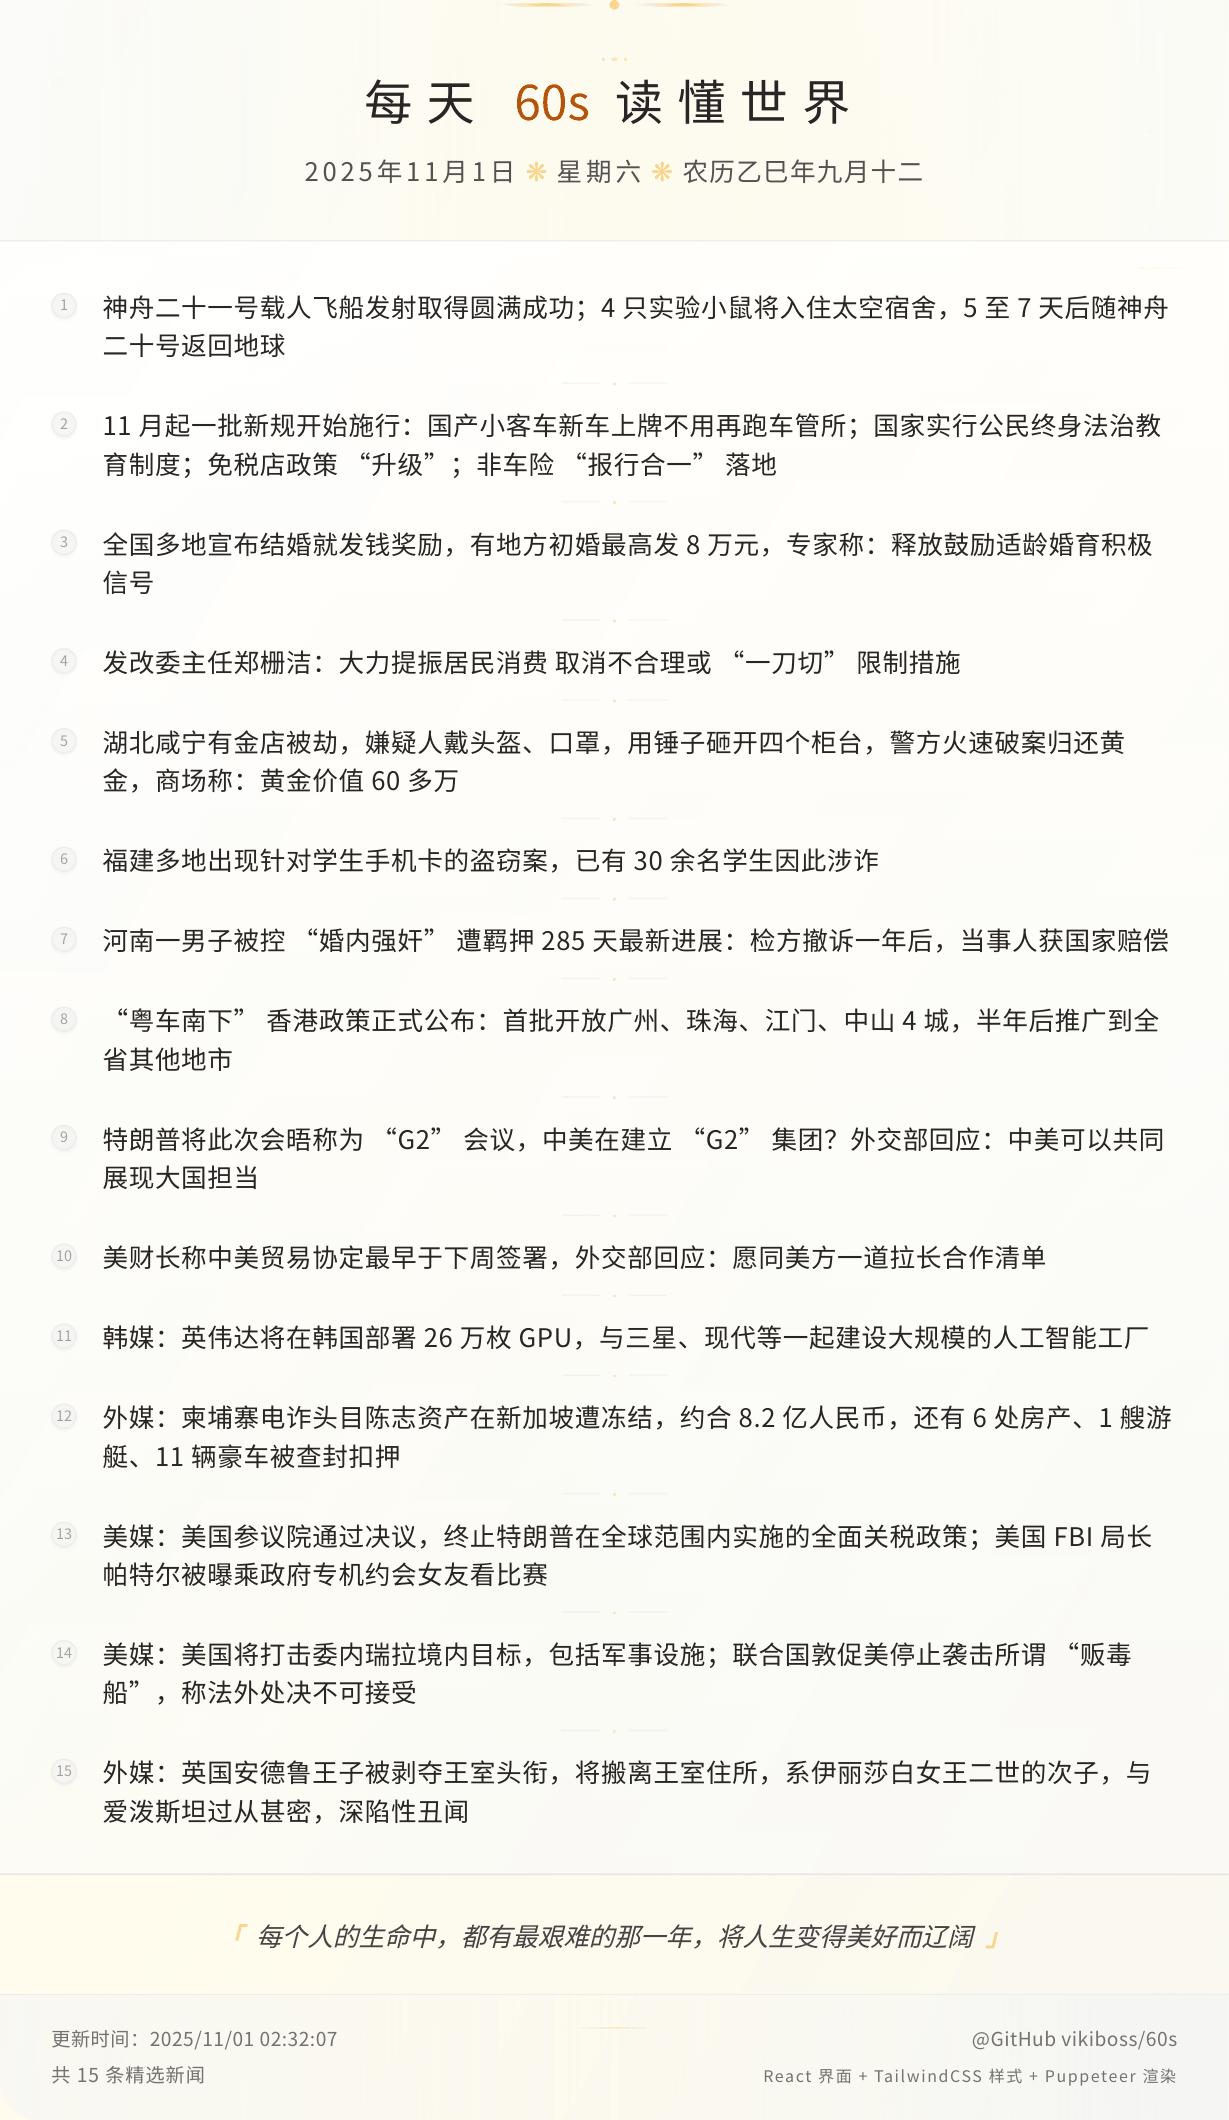
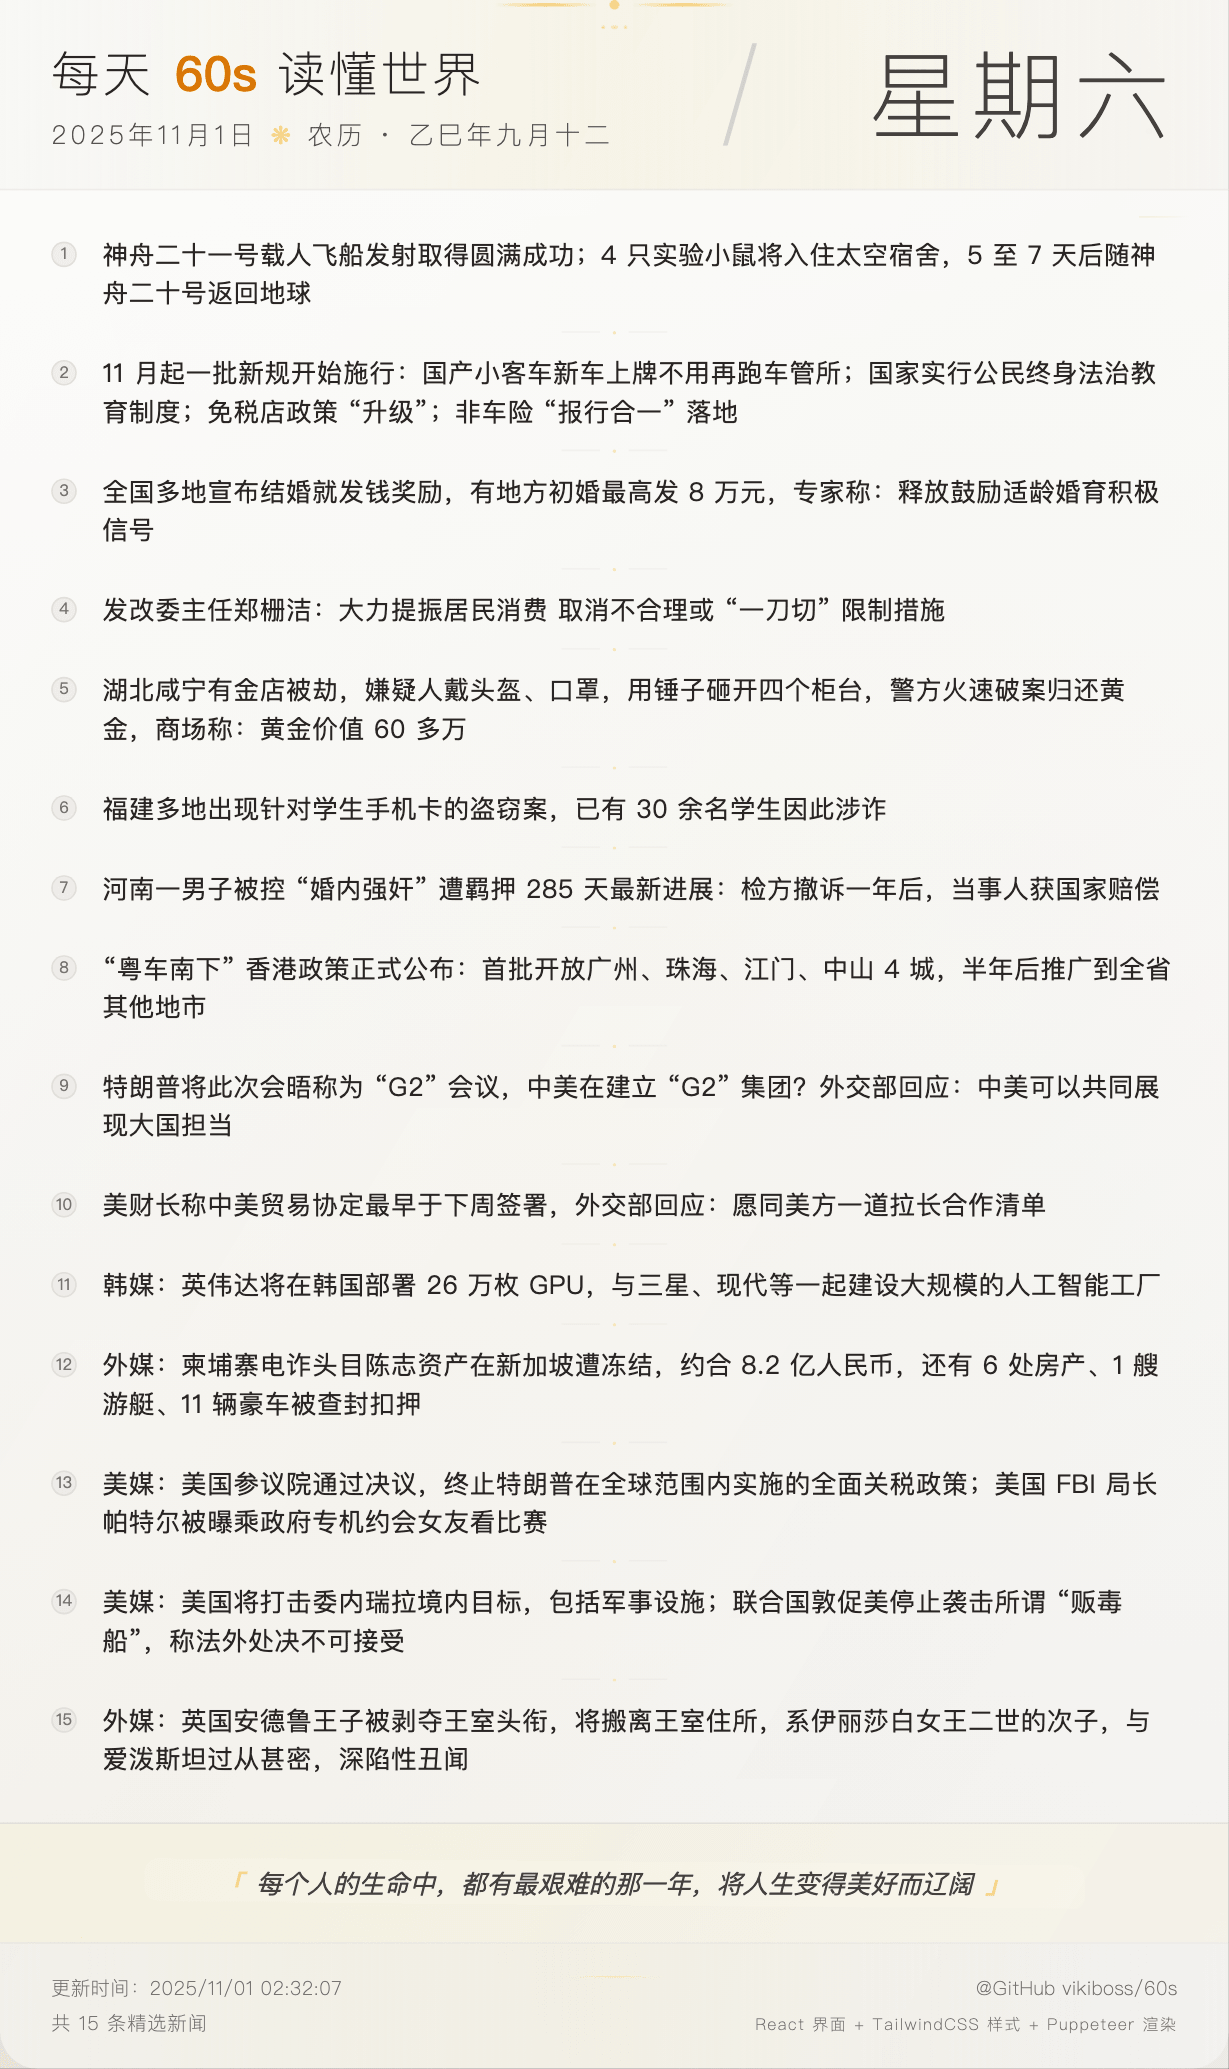
chore: 更新组件样式，突出星期

diff --git a/src/components/news.tsx b/src/components/news.tsx
@@ -38,25 +38,31 @@ export function NewsCard({ data }: { data: NewsData }) {
         <div className='w-16 h-0.5 bg-gradient-to-l from-transparent via-amber-400/60 to-transparent rounded-full'></div>
       </div>
 
-      <div className='bg-gradient-to-r from-stone-50/80 via-amber-50/60 to-stone-50/80 px-8 py-8 border-b border-stone-200/60'>
-        <div className='text-center space-y-3 relative'>
+      <div className='bg-gradient-to-r from-stone-50/80 via-amber-50/60 to-stone-50/80 px-8 py-6 border-b border-stone-200/60'>
+        <div className='flex flex-row items-center justify-between gap-6 relative'>
           <div className='absolute -top-2 left-1/2 transform -translate-x-1/2 flex space-x-1'>
             <div className='w-0.5 h-0.5 bg-amber-400/40 rounded-full'></div>
             <div className='w-1 h-0.5 bg-amber-300/40 rounded-full'></div>
             <div className='w-0.5 h-0.5 bg-amber-400/40 rounded-full'></div>
           </div>
 
-          <h1 className='text-3xl font-extralight text-stone-800 tracking-[0.3em] leading-tight'>
-            每天 <span className='font-normal text-amber-700 tracking-normal'>60s</span> 读懂世界
-          </h1>
-          <div className='text-base text-stone-600 tracking-[0.15em] space-x-1 font-light'>
-            <span>
-              {year}年{month}月{day}日
-            </span>
-            <span className='mx-4 text-amber-400/60'>❋</span>
-            <span>{getDayOfWeek(data.date)}</span>
-            <span className='mx-4 text-amber-400/60'>❋</span>
-            <span className='tracking-wider'>农历{lunarDate}</span>
+          <div className='text-left shrink-0 flex flex-col gap-1'>
+            <h1 className='text-3xl font-light text-stone-800 tracking-[0.15rem] leading-tight my-1'>
+              每天 <span className='font-medium text-amber-600 tracking-normal'>60s</span> 读懂世界
+            </h1>
+            <div className='text-md text-stone-600 tracking-[0.15rem] font-light leading-tight'>
+              <span>
+                {year}年{month}月{day}日
+              </span>
+              <span className='mx-2 text-amber-400/60'>❋</span>
+              <span>农历 · {lunarDate}</span>
+            </div>
+          </div>
+
+          <div className='w-[3px] h-16 bg-stone-400/42 transform -skew-x-16'></div>
+
+          <div className='flex-shrink-0 font-light text-right text-6xl text-stone-700 tracking-[0.3rem]'>
+            {getDayOfWeek(data.date)}
           </div>
         </div>
       </div>
@@ -68,7 +74,7 @@ export function NewsCard({ data }: { data: NewsData }) {
           {data.news.map((item, index) => (
             <div key={index} className='group relative'>
               <div className='flex items-start space-x-4 py-2 relative'>
-                <div className='flex-shrink-0 w-4 h-4 rounded-full bg-stone-100/90 flex items-center justify-center text-[9px] text-stone-400 border border-stone-200/60 mt-1 shadow-sm'>
+                <div className='flex-shrink-0 w-4 h-4 rounded-full bg-stone-200/60 flex items-center justify-center text-[10px] text-stone-500 border border-stone-300/60 mt-1'>
                   {String(index + 1)}
                 </div>
                 <div className='flex-1'>
